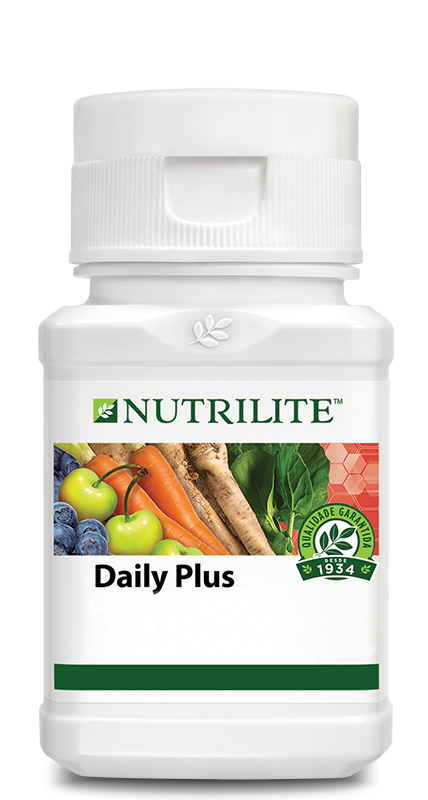
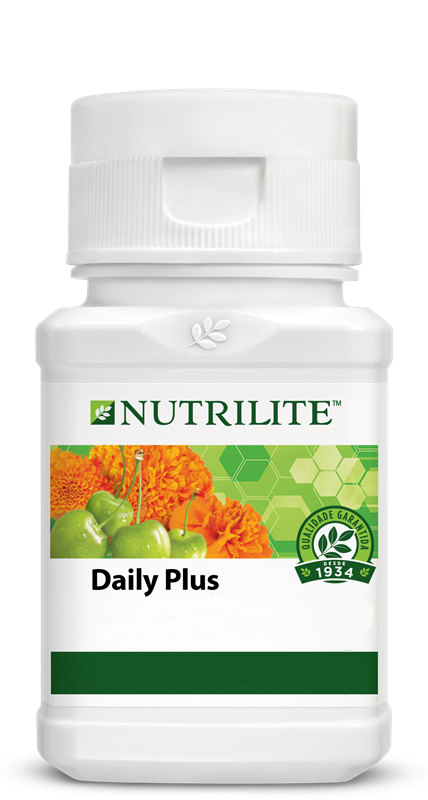
Cambios brasil

diff --git a/src/app/components/product-detail/product-detail.component.ts b/src/app/components/product-detail/product-detail.component.ts
@@ -133,7 +133,7 @@ export class ProductDetailComponent implements OnInit {
                 'assets/imgs/B_Plus/ICON_7.png'
             ]
         }, */
-        { 
+   /*      { 
             productFlag:16,
             id: 7, name: 'HSN', 
             slogan: 'Belleza de adentro hacia afuera', 
@@ -151,7 +151,7 @@ export class ProductDetailComponent implements OnInit {
                 'assets/imgs/HSN/ICON_7.png',
                 'assets/imgs/HSN/ICON_6.png'
             ]
-        },
+        }, */
         { 
             productFlag:17,
             id: 8, name: 'Água Micelar',
@@ -182,7 +182,7 @@ export class ProductDetailComponent implements OnInit {
             footer: '',
             reverse: false, 
             link: 'https://www.amway.com.br/pt/Glister-200g-Multi-Action-Creme-Dental-com-Fluor/p/E6833?utm_source=site&utm_medium=home&utm_campaign=br_pt&utm_content=cta_compra&utm_term=irresistiveis-creme-dental',
-            color: '#6e6697',
+            color: '#265894',
             imgs: [
                 'assets/imgs/Pasta_de_dientes/ICON_9.png',
                 'assets/imgs/Pasta_de_dientes/ICON_11.png',

diff --git a/src/app/components/products/products.component.ts b/src/app/components/products/products.component.ts
@@ -33,9 +33,9 @@ export class ProductsComponent implements OnInit {
         { id: 5, name: 'Acerola C', img: 'assets/imgs/Productos/IMG_13.jpg' },
         //{ id: 6, name: 'Vitamina B', img: 'assets/imgs/Productos/IMG_6.jpg' },
         //{ id: 7, name: 'HSN', img: 'assets/imgs/Productos/IMG_7.jpg' },
-        { id: 8, name: 'Água Micelar', img: 'assets/imgs/Productos/IMG_8.jpg' },
-        { id: 9, name: 'Creme Dental', img: 'assets/imgs/Productos/IMG_12.png' },
-        { id: 10, name: 'LOC™ Limpador Multiusos', img: 'assets/imgs/Productos/IMG_10.jpg' }
+        { id: 6, name: 'Água Micelar', img: 'assets/imgs/Productos/IMG_8.jpg' },
+        { id: 7, name: 'Creme Dental', img: 'assets/imgs/Productos/IMG_12.png' },
+        { id: 8, name: 'LOC™ Limpador Multiusos', img: 'assets/imgs/Productos/IMG_10.jpg' }
     ];
     
     public breakpoints: any = {

diff --git a/src/app/components/tools/tools.component.html b/src/app/components/tools/tools.component.html
@@ -79,7 +79,7 @@
                             <h6 class="general-small-text bold-text" >{{ tool.name }}</h6>
                             <small class="general-small-text mb2">{{ tool.description }}</small>
                         </div>
-                        <button (click)="openLink(tool.link)" class="general-btn" type="button">Ir a Dr. Glister</button>
+                        <button (click)="openLink(tool.link)" class="general-btn" type="button">Ir para as recomendações</button>
                     </div>
                 </div>
             </div>

diff --git a/src/app/components/why-irresistibles/why-irresistibles.component.html b/src/app/components/why-irresistibles/why-irresistibles.component.html
@@ -105,7 +105,7 @@
                     <div class="text-center img-card">
                         <img src="assets/imgs/Por_Que_Naturales/ICON_3.png" class="logos-icon" draggable="false" alt="">
                         <br>
-                        <a href="https://www.artistry.lat/"><button class="general-btn mb1" type="button">Saiba mais</button></a> 
+                       
                     </div>
                 </div>
                 <div class="col-12 col-md-6" style="padding: 2rem;" >

diff --git a/src/app/components/solution-detail/solution-detail.component.ts b/src/app/components/solution-detail/solution-detail.component.ts
@@ -155,7 +155,7 @@ export class SolutionDetailComponent implements OnInit {
                 },
                 {
                     name: 'Nutrilite™ Daily Plus (90 tab)',
-                    img: 'assets/imgs/Soluciones/ELEMENT_10.png'
+                    img: 'assets/imgs/Soluciones/ELEMENT_5.png'
                 },
             ]
         },
